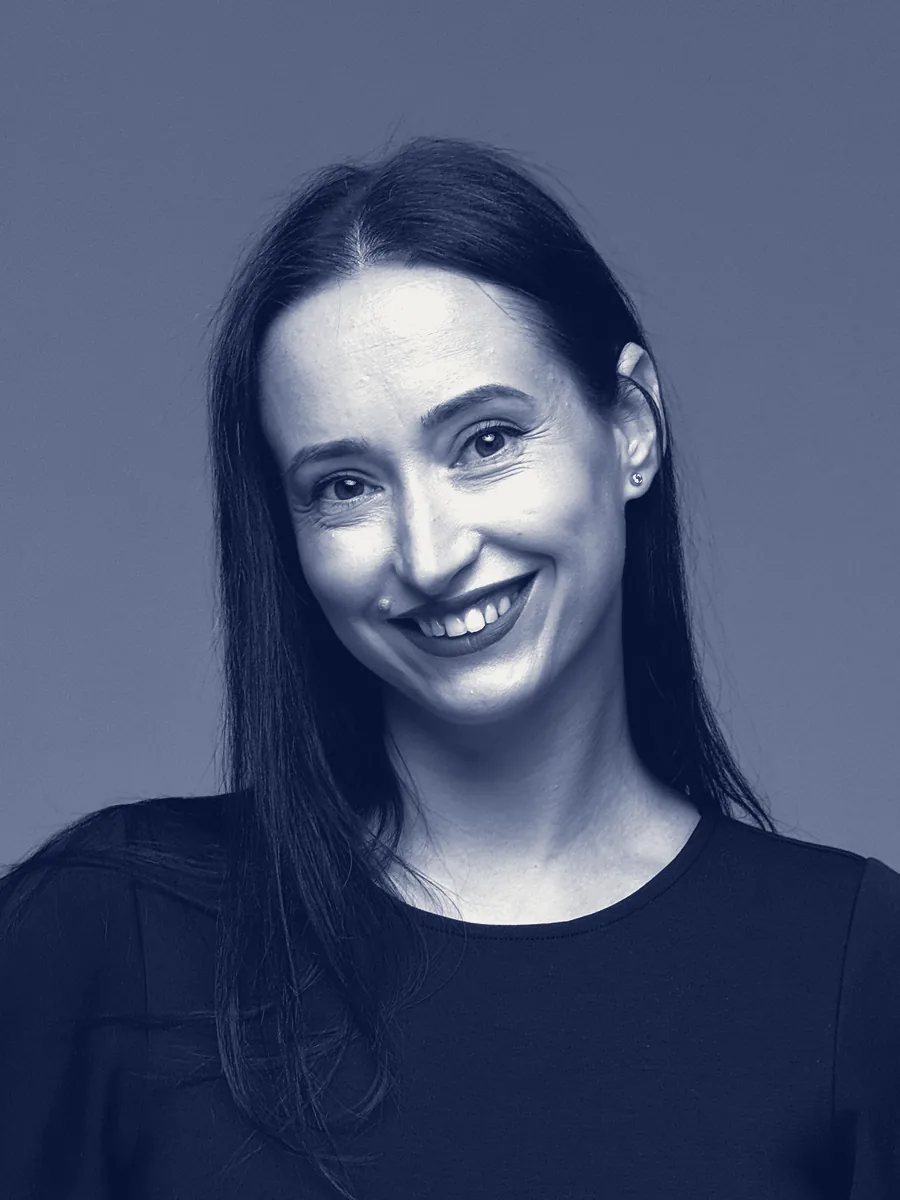
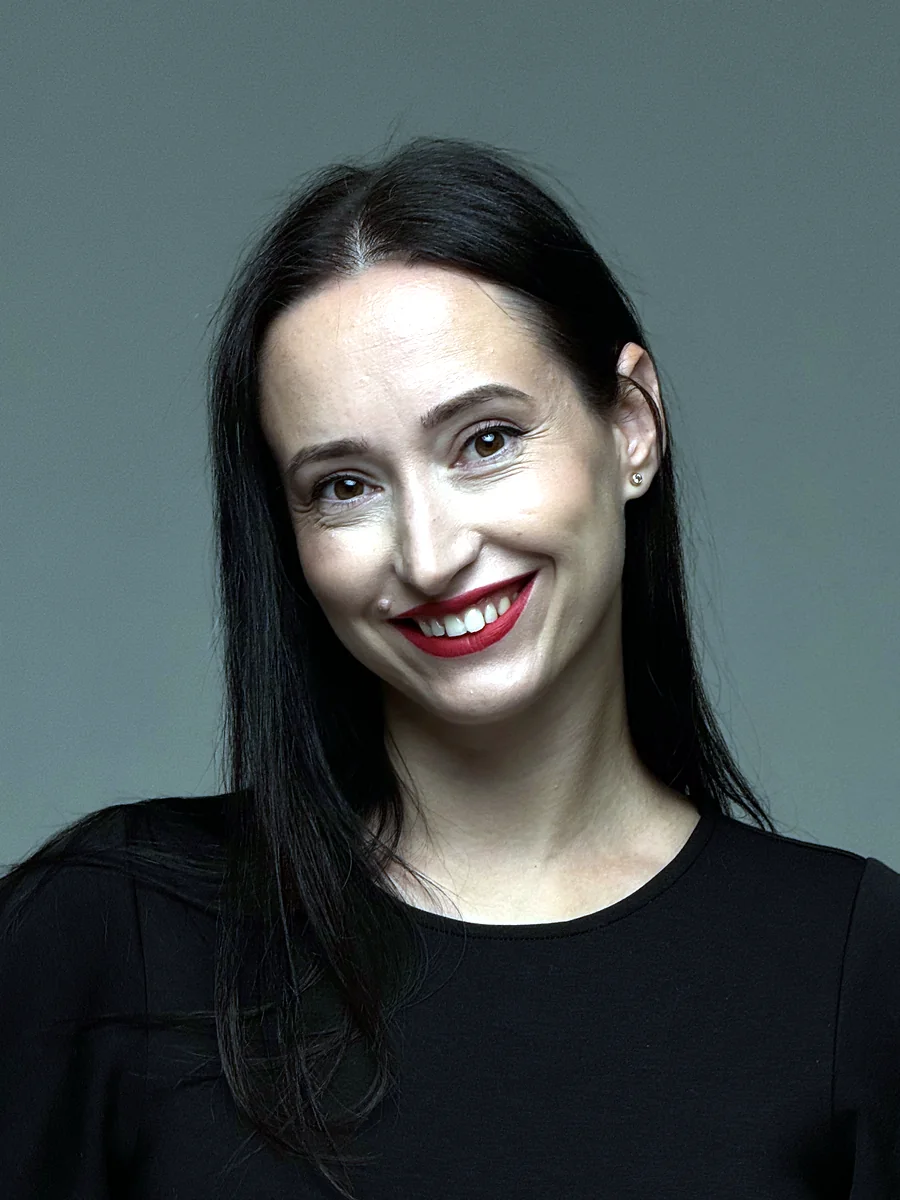
Colour arch portraits, bigger arch in pain block, larger founder eyebrow

diff --git a/index.html b/index.html
@@ -255,7 +255,7 @@ button{font:inherit}
 .fhead{position:absolute;z-index:4;left:0;right:0;top:calc(92px + env(safe-area-inset-top,0px));max-width:1440px;margin:0 auto;padding:0 var(--gr) 0 var(--gl);display:flex;justify-content:space-between;align-items:flex-start;gap:24px;pointer-events:none}
 .fhead h2{font-family:var(--display);font-weight:700;font-size:clamp(25px,3vw,48px);line-height:1.02;letter-spacing:-.025em;margin:12px 0 0;max-width:12em}
 .fhead h2 em{font-style:normal;color:var(--orange)}
-.fhead .eyebrow{color:var(--mist)}
+.fhead .eyebrow{color:var(--beige);font-family:var(--display);font-weight:600;font-size:clamp(16px,1.4vw,22px);letter-spacing:-.01em}
 .flvl{text-align:right;font-family:var(--mono);font-size:12px;letter-spacing:.12em;text-transform:uppercase;color:var(--mist);white-space:nowrap}
 .flvl b{display:block;font-family:var(--display);font-weight:700;font-size:clamp(36px,4.1vw,66px);line-height:1;letter-spacing:-.025em;color:var(--white);margin-top:6px}
 .flvl b span{color:var(--mist);font-size:.45em}
@@ -628,7 +628,7 @@ html.menu-open .gh{transform:translate(-50%,0)}
 .pn-win{position:relative;height:min(76vh,780px);height:min(76svh,780px)}
 .pn-box{position:absolute;inset:0;overflow:hidden;background:linear-gradient(180deg,#E9E2DA,#D9CCBF);box-shadow:0 50px 90px -40px rgba(16,38,98,.4)}
 /* Maria in an arch frame (same language as the contact block); the frown cross-fades into a smile */
-.pn-me{position:absolute;left:6%;top:9%;width:min(33%,300px);aspect-ratio:3/4;z-index:20;pointer-events:none;border-radius:999px 999px 0 0;overflow:hidden;background:var(--navy-deep);box-shadow:0 0 0 8px rgba(255,255,255,.55),0 30px 60px -24px rgba(16,38,98,.55)}
+.pn-me{position:absolute;left:6%;top:7%;width:min(44%,400px);aspect-ratio:3/4;z-index:20;pointer-events:none;border-radius:999px 999px 0 0;overflow:hidden;background:var(--navy-deep);box-shadow:0 0 0 8px rgba(255,255,255,.55),0 30px 60px -24px rgba(16,38,98,.55)}
 .pn-me img{position:absolute;inset:0;width:100%;height:100%;object-fit:cover;display:block;transition:opacity .7s ease,transform 1.1s cubic-bezier(.2,.8,.2,1)}
 .pn-me .smile{opacity:0;transform:scale(1.03)}
 .smiling .pn-me #pnSkeptic{opacity:0}
@@ -650,7 +650,7 @@ html.menu-open .gh{transform:translate(-50%,0)}
   #pain .track{height:340vh}
   .pn-in{grid-template-columns:1fr;grid-template-rows:auto 1fr;align-items:start;gap:26px;padding-top:calc(78px + env(safe-area-inset-top,0px));padding-bottom:calc(28px + env(safe-area-inset-bottom,0px))}
   .pn-win{order:-1;height:50svh;margin:0 12px}
-  .pn-me{width:40%;left:5%;top:8%;box-shadow:0 0 0 5px rgba(255,255,255,.55),0 20px 40px -20px rgba(16,38,98,.55)}
+  .pn-me{width:48%;left:5%;top:6%;box-shadow:0 0 0 5px rgba(255,255,255,.55),0 20px 40px -20px rgba(16,38,98,.55)}
   .pn-dc{width:78px;padding:7px}.pn-dc b{font-size:10px}.pn-dc.chk{width:56px}.pn-dc.stk{width:62px;font-size:10px}
   .pn-fold{width:76px;height:58px;bottom:6%;z-index:25}.pn-fold span{font-size:11px;left:8px;bottom:8px}
   .pn-fold.f0{right:calc(4% + 168px)}.pn-fold.f1{right:calc(4% + 84px)}.pn-fold.f2{right:4%}
